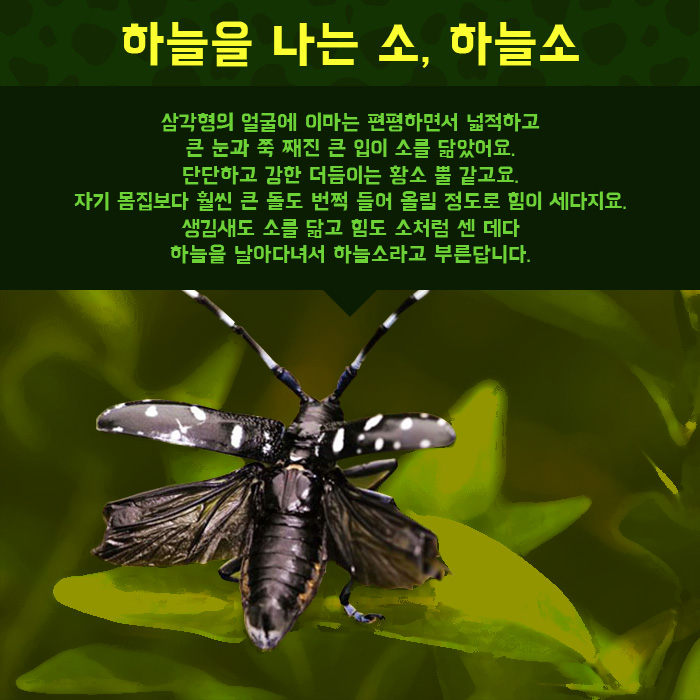
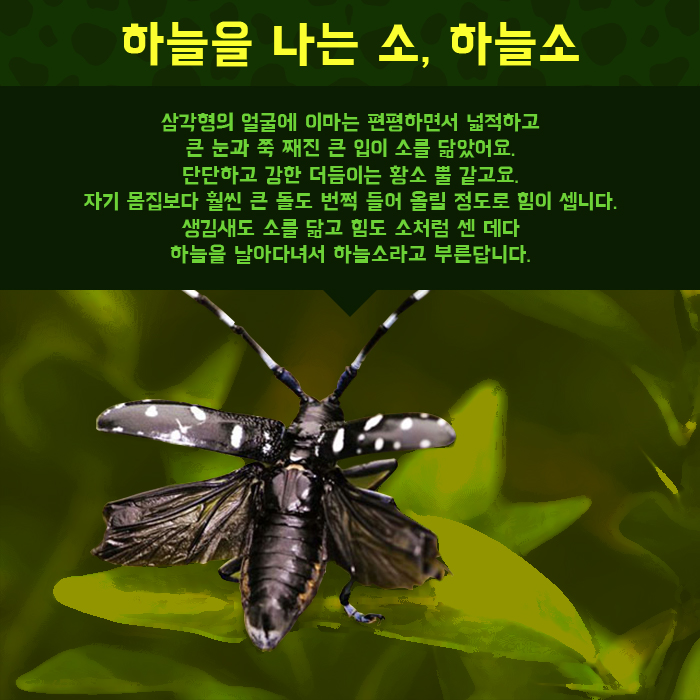
34

Changed region(s): [[0.09, 0.27, 0.9, 0.3]]

diff --git a/index_31.html b/index_31.html
@@ -60,27 +60,6 @@
                 땅강아지
                 [Mole cricket]</h2>
                 <p>※곤충류(강), 메뚜기(목), 땅강아지(과)</p>
-            <h3>하늘밥도둑
-                심호택</h3>
-                <p>망나니가 아닐 수야 없지</p>
-                <p>날개까지 돋친 놈이멀쩡한 놈이</p>
-                <p>공연히 남의 집 곡식줄기나 분지르고 다니니</p>
-                <p>이름도 어디서 순 건달 이름이다만</p>
-                <p>괜찮다 요샛날은</p>
-                <p>밥도둑쯤 별것도 아니란다</p>
-                <p>우리들 한 뜨락의 작은 벗이었으니</p>
-                <p>땅강아지, 만나면 예처럼 불러주련만</p>
-                <p>너는 도대체 어디 있는 거냐?</p>
-                <p>살아보자고, 우리들 타고난 대로</p>
-                <p>살아갈 희망은 있다고</p>
-                <p>그 막막한 아침 모래밭 네가 헤쳐갔듯이</p>
-                <p>나 또한 긴 한세월을 건너왔다만</p>
-                <p>너는 왜 아무데도 보이지 않는 거냐?하늘밥도둑아 얼굴 좀 보자</p>   
-                <p>세상에 벼라별 도적놈 각종으로 생겨나서</p>                
-                <p>너는 이제 이름도 꺼내지 못하리</p>                
-                <p>나와보면 안단다</p>                
-                <p>부끄러워 말고 나오너라</p>                               
-                <p>※ 하늘밥도둑은 땅강아지의 다른 이름입니다.</p>
             <h3>땅 파기에 최적화된 삽 모양 파워 앞다리</h3>
                 <p>몸길이는 3∼3.5㎝에 
                         황갈색 또는 흑갈색이며

diff --git a/index_34.html b/index_34.html
@@ -74,13 +74,13 @@
         </div>
         <div class="description">
             <h2>얼룩소처럼 생긴 힘 꾼! 알락하늘소</h2>
-            <p>딱정벌레목 하늘소과
+            <p>딱정벌레목 하늘솟과
                 한해살이 곤충</p>
             <h3>하늘을 나는 소, 하늘소</h3>
                 <p>삼각형의 얼굴에 이마는 편평하면서 넓적하고
                     큰 눈과 쭉 째진 큰 입이 소를 닮았어요.
                     단단하고 강한 더듬이는 황소 뿔 같고요.
-                    자기 몸집보다 훨씬 큰 돌도 번쩍 들어 올릴 정도로 힘이 세다지요.
+                    자기 몸집보다 훨씬 큰 돌도 번쩍 들어 올릴 정도로 힘이 셉니다.
                     생김새도 소를 닮고 힘도 소처럼 센 데다
                     하늘을 날아다녀서 하늘소라고 부른답니다.</p>
             <h3>얼룩소 닮은 알락하늘소 </h3>
